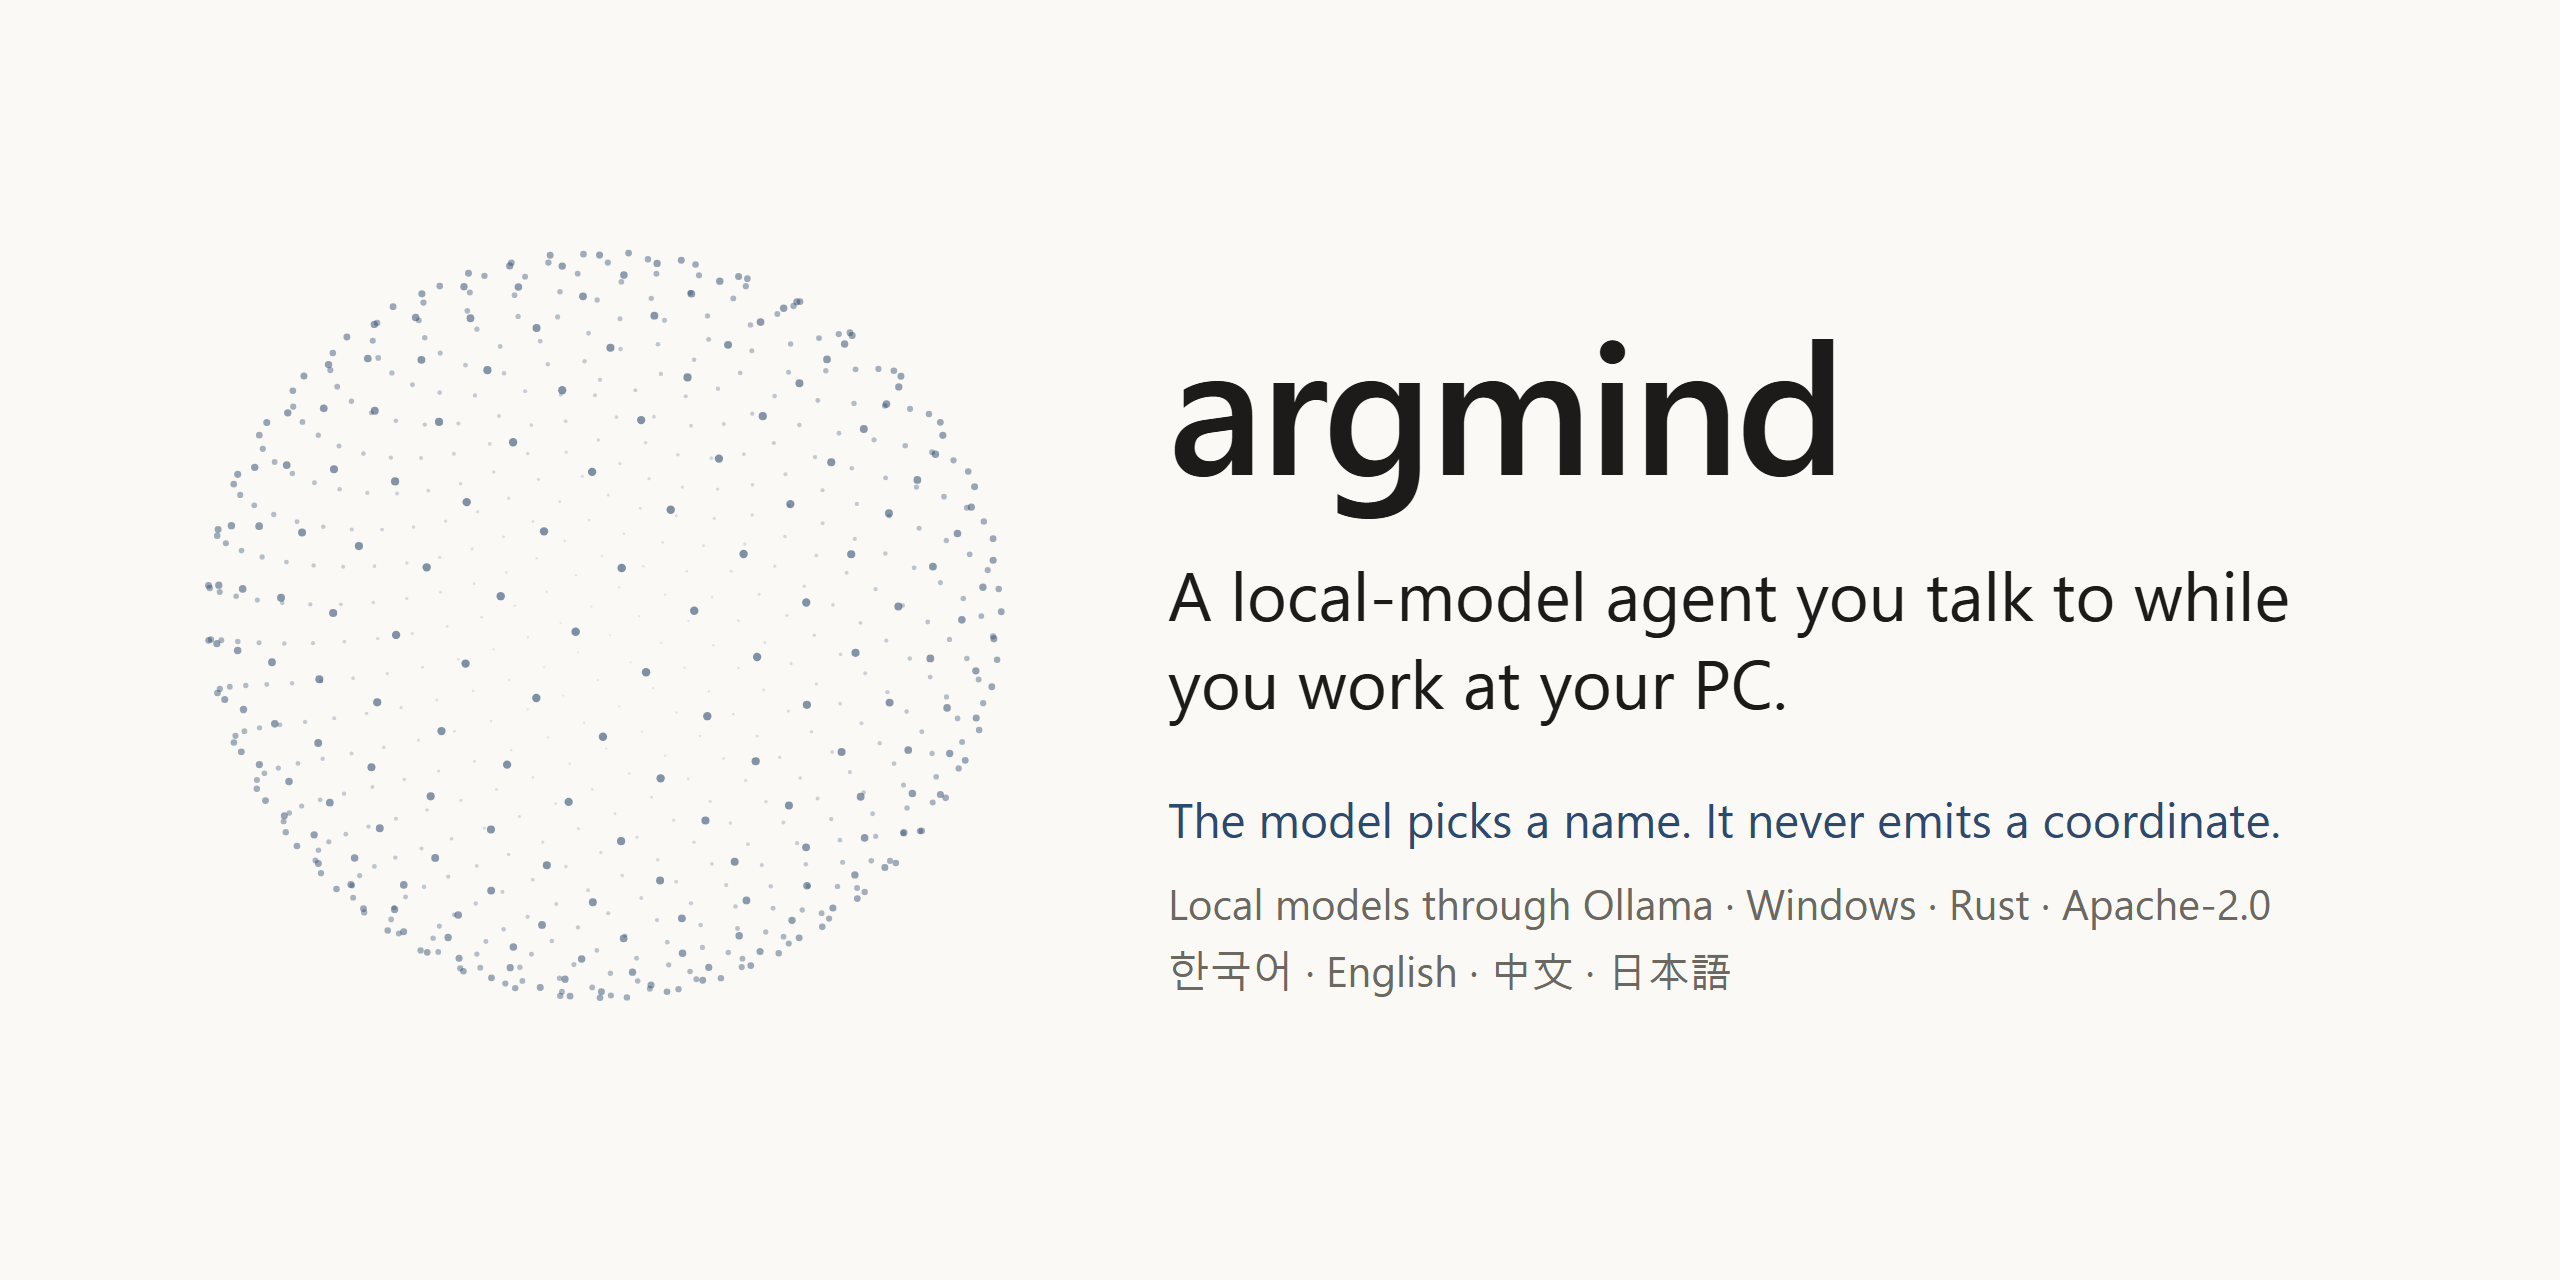
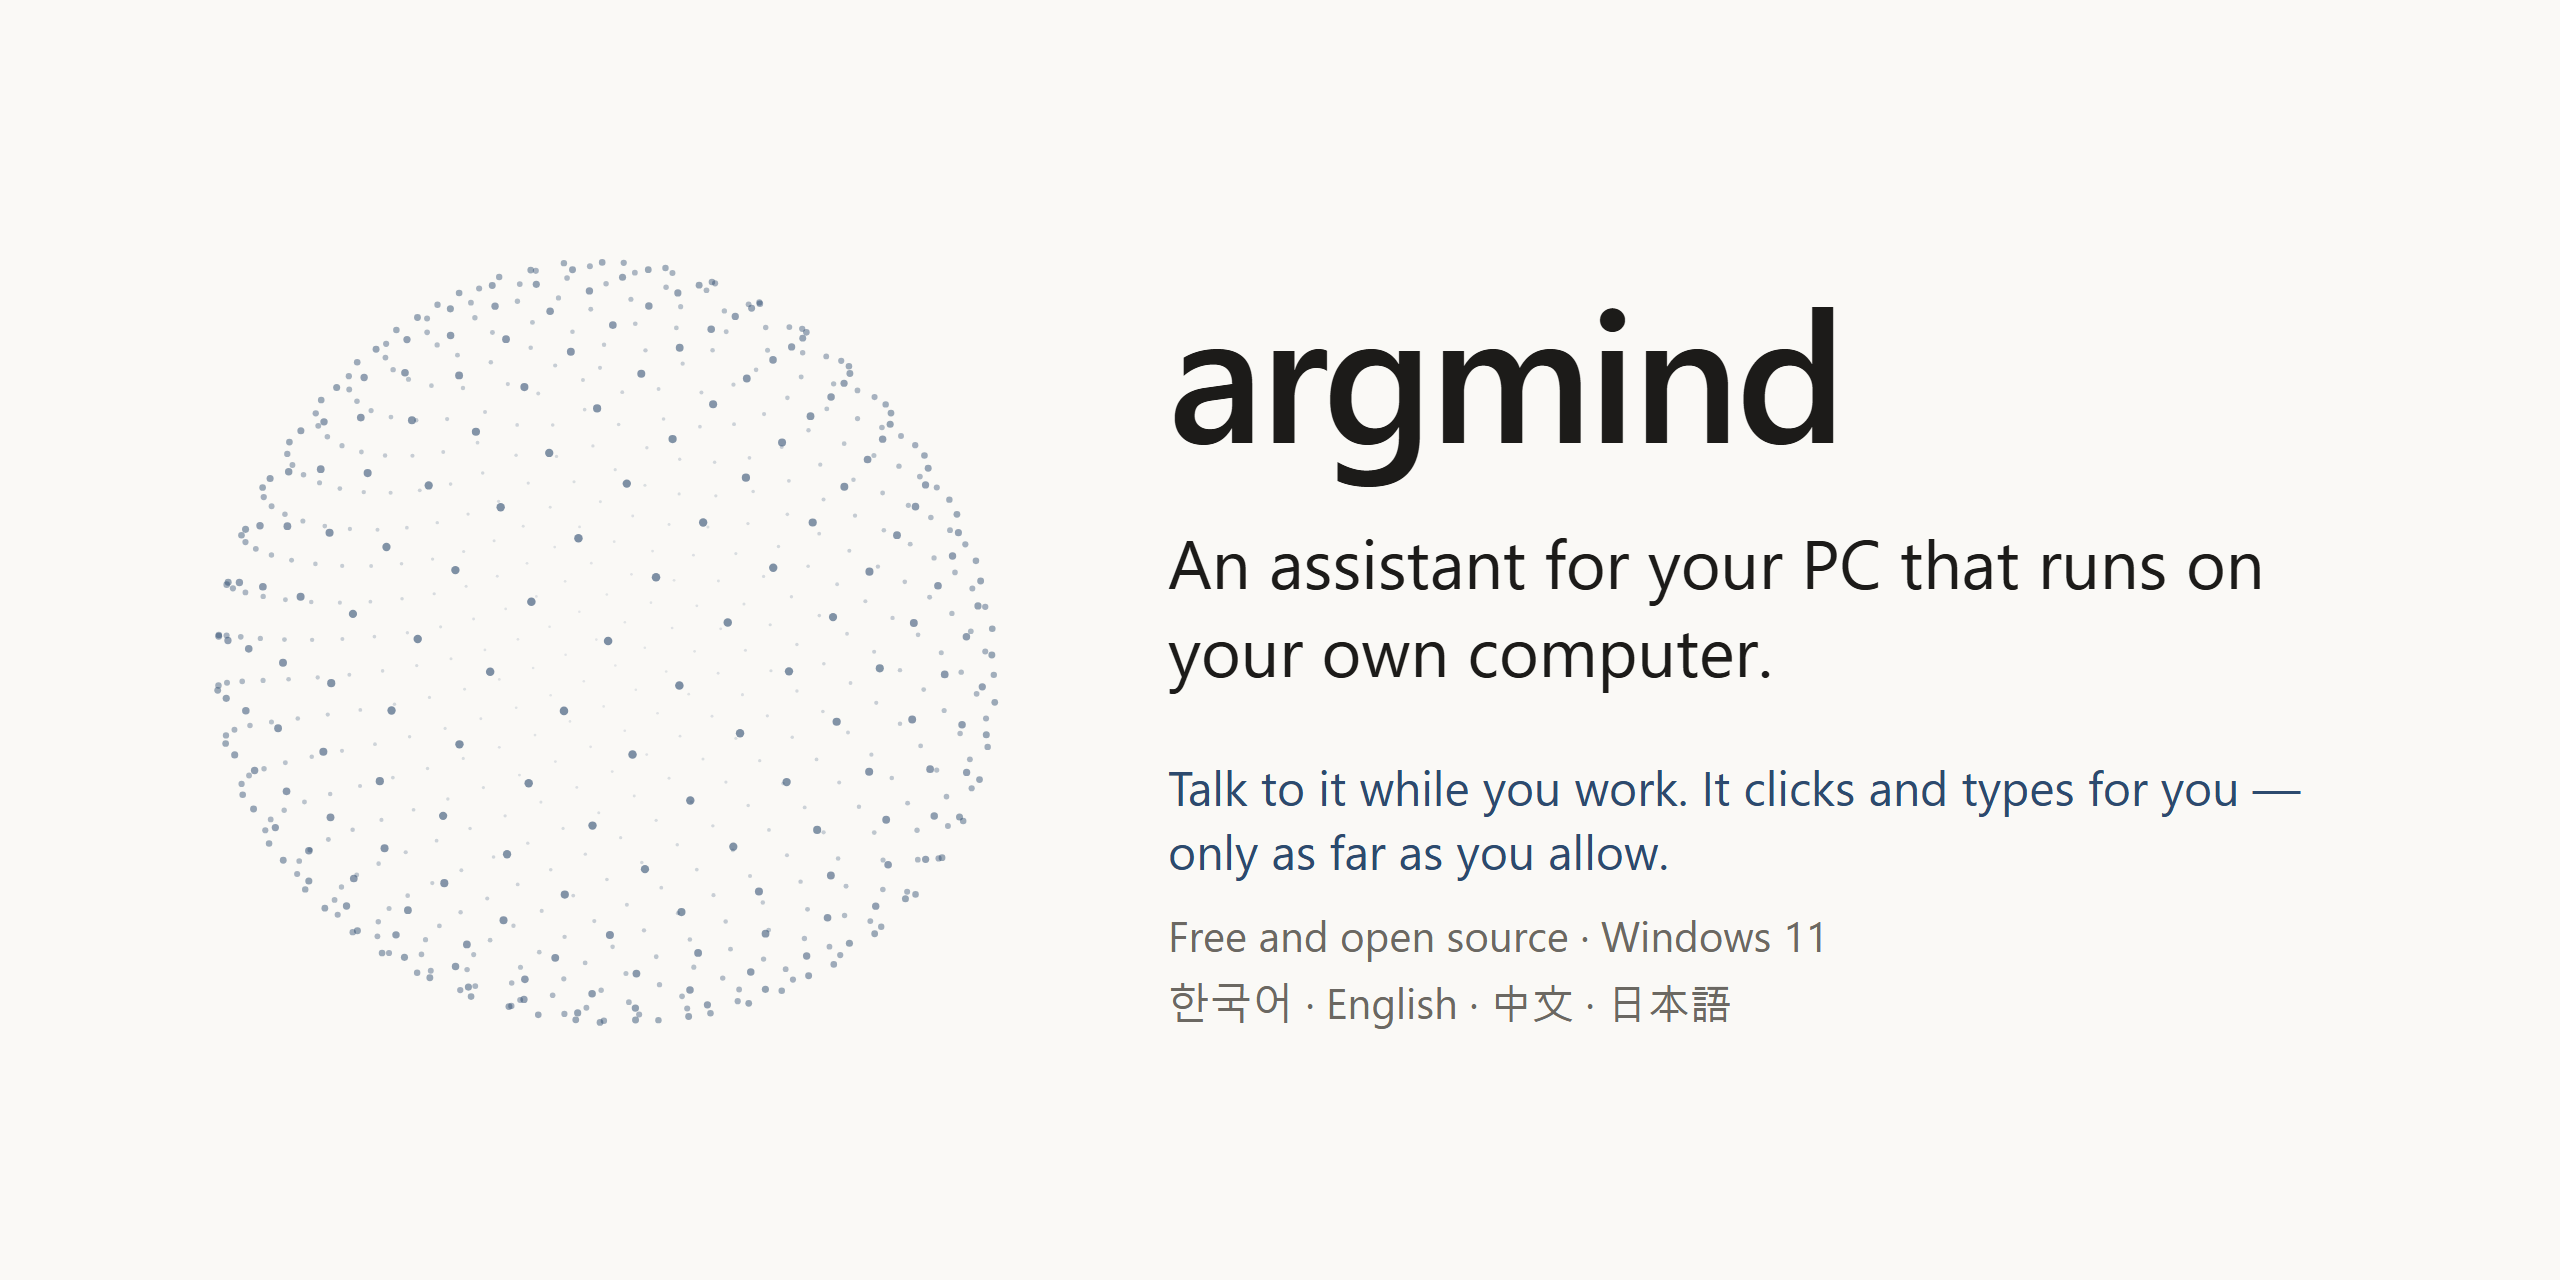
배너 그림도 쉬운 말로 — '좌표' 문장 대신 소개 페이지와 같은 문장, Ollama·Rust 대신 '무료·오픈 소스 · Windows 11'

diff --git a/README.md b/README.md
@@ -1,6 +1,6 @@
 <p align="center">
   <img src="docs/images/social-preview.png" width="720"
-       alt="argmind: a local-model agent you talk to while you work at your PC">
+       alt="argmind: an assistant for your PC that runs on your own computer">
 </p>
 
 <p align="center">
